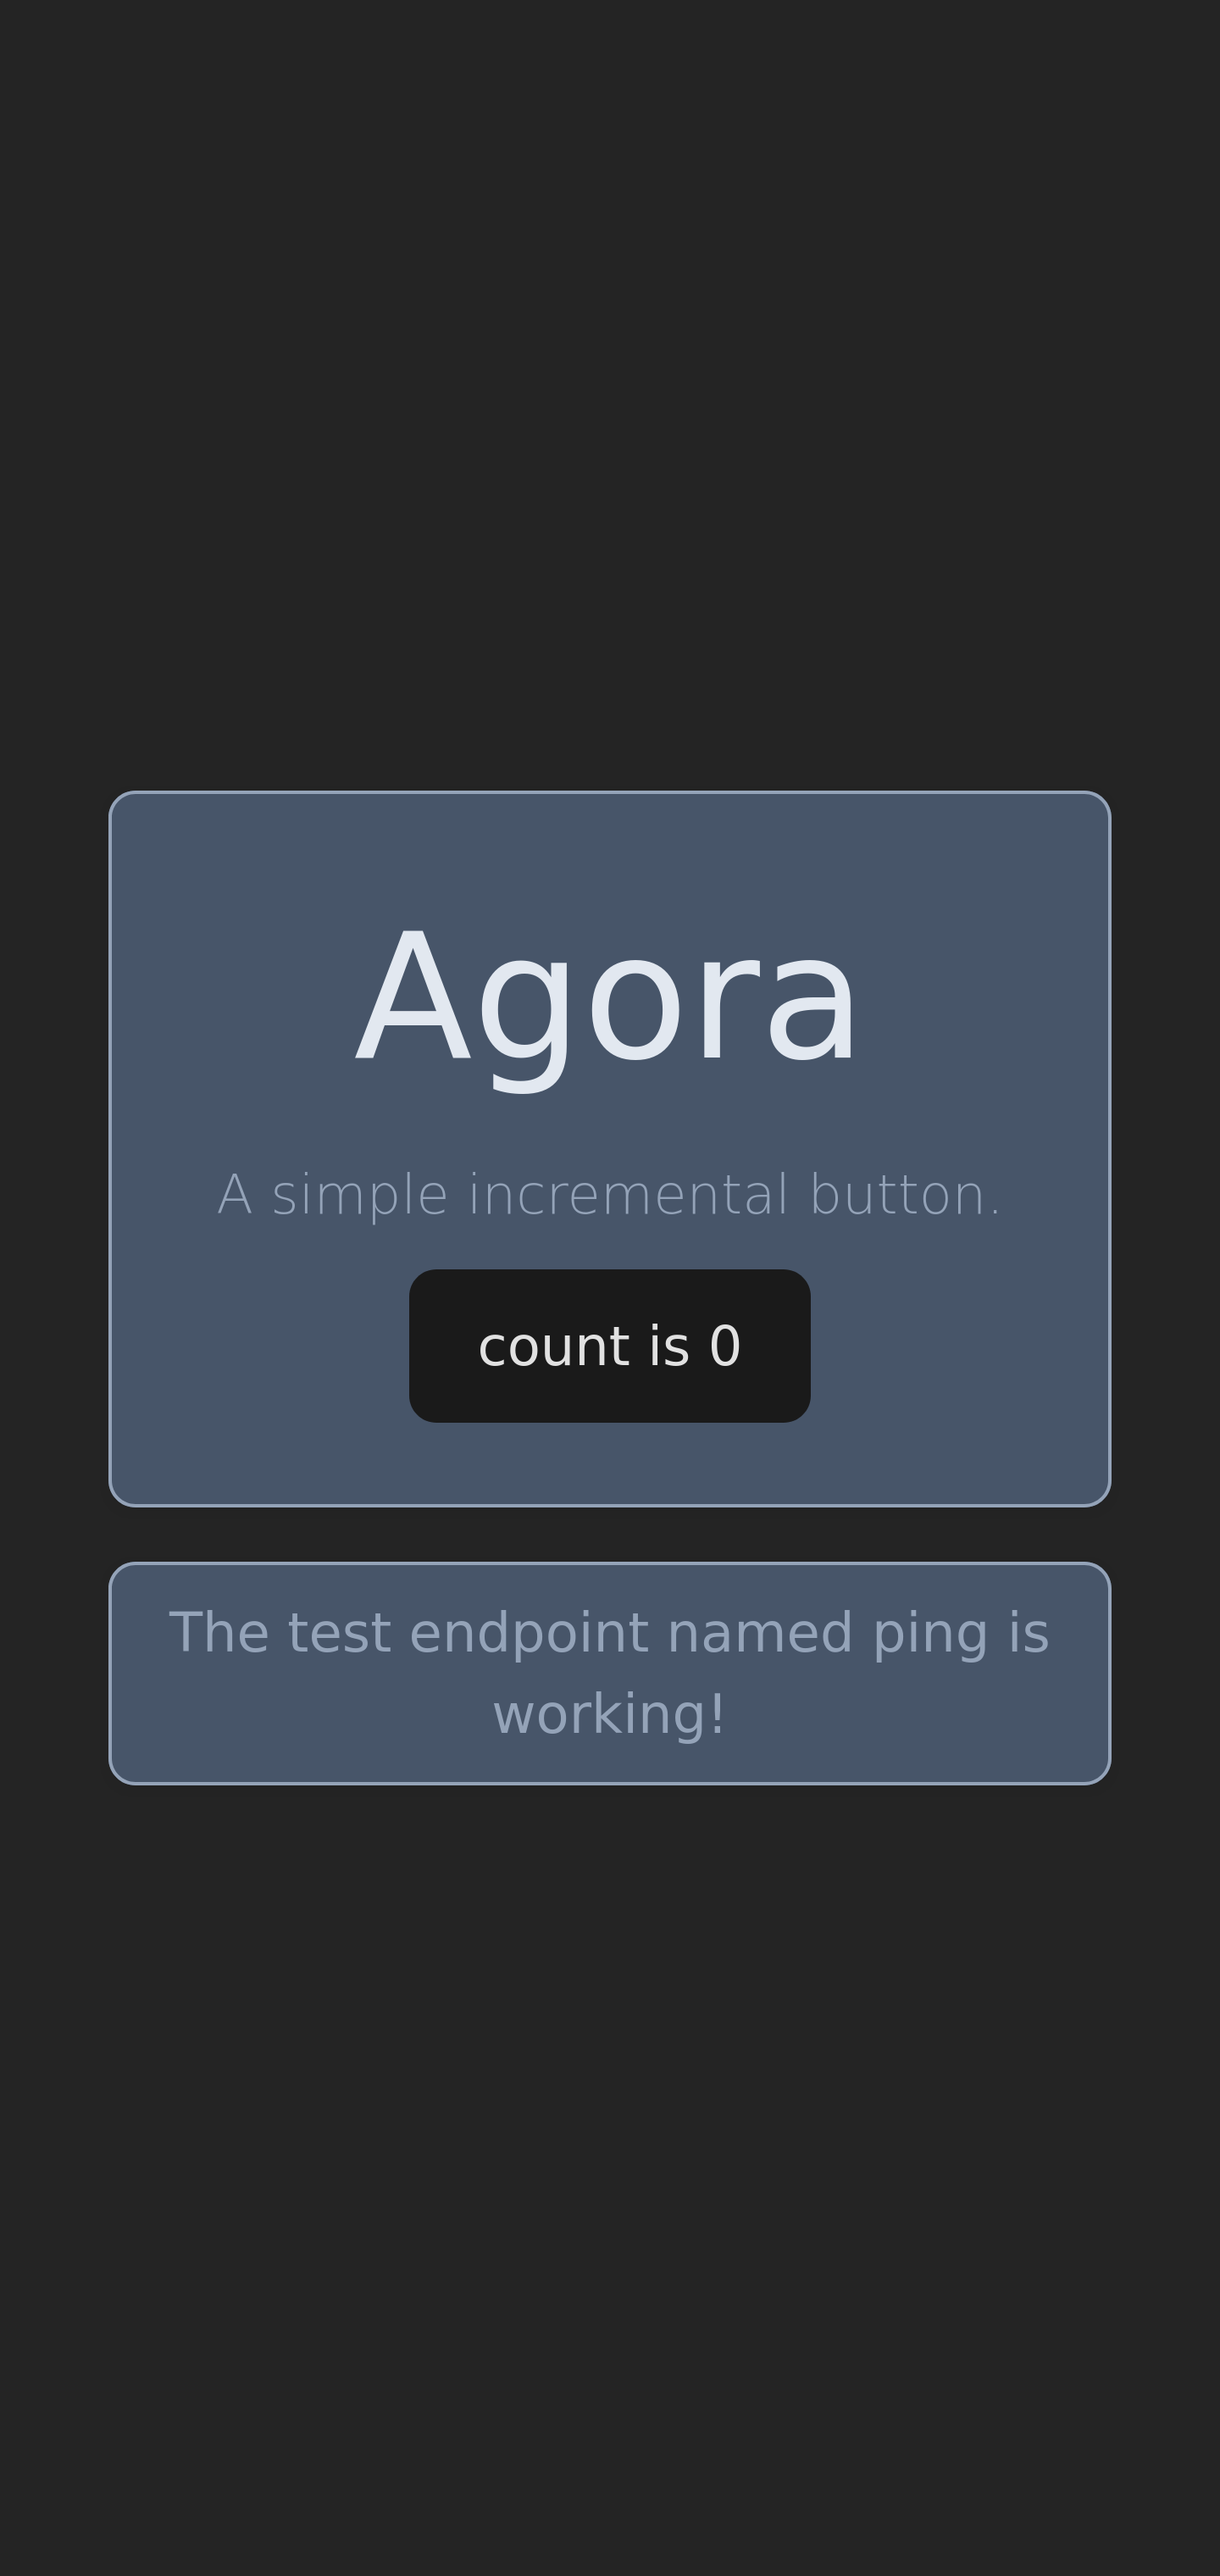
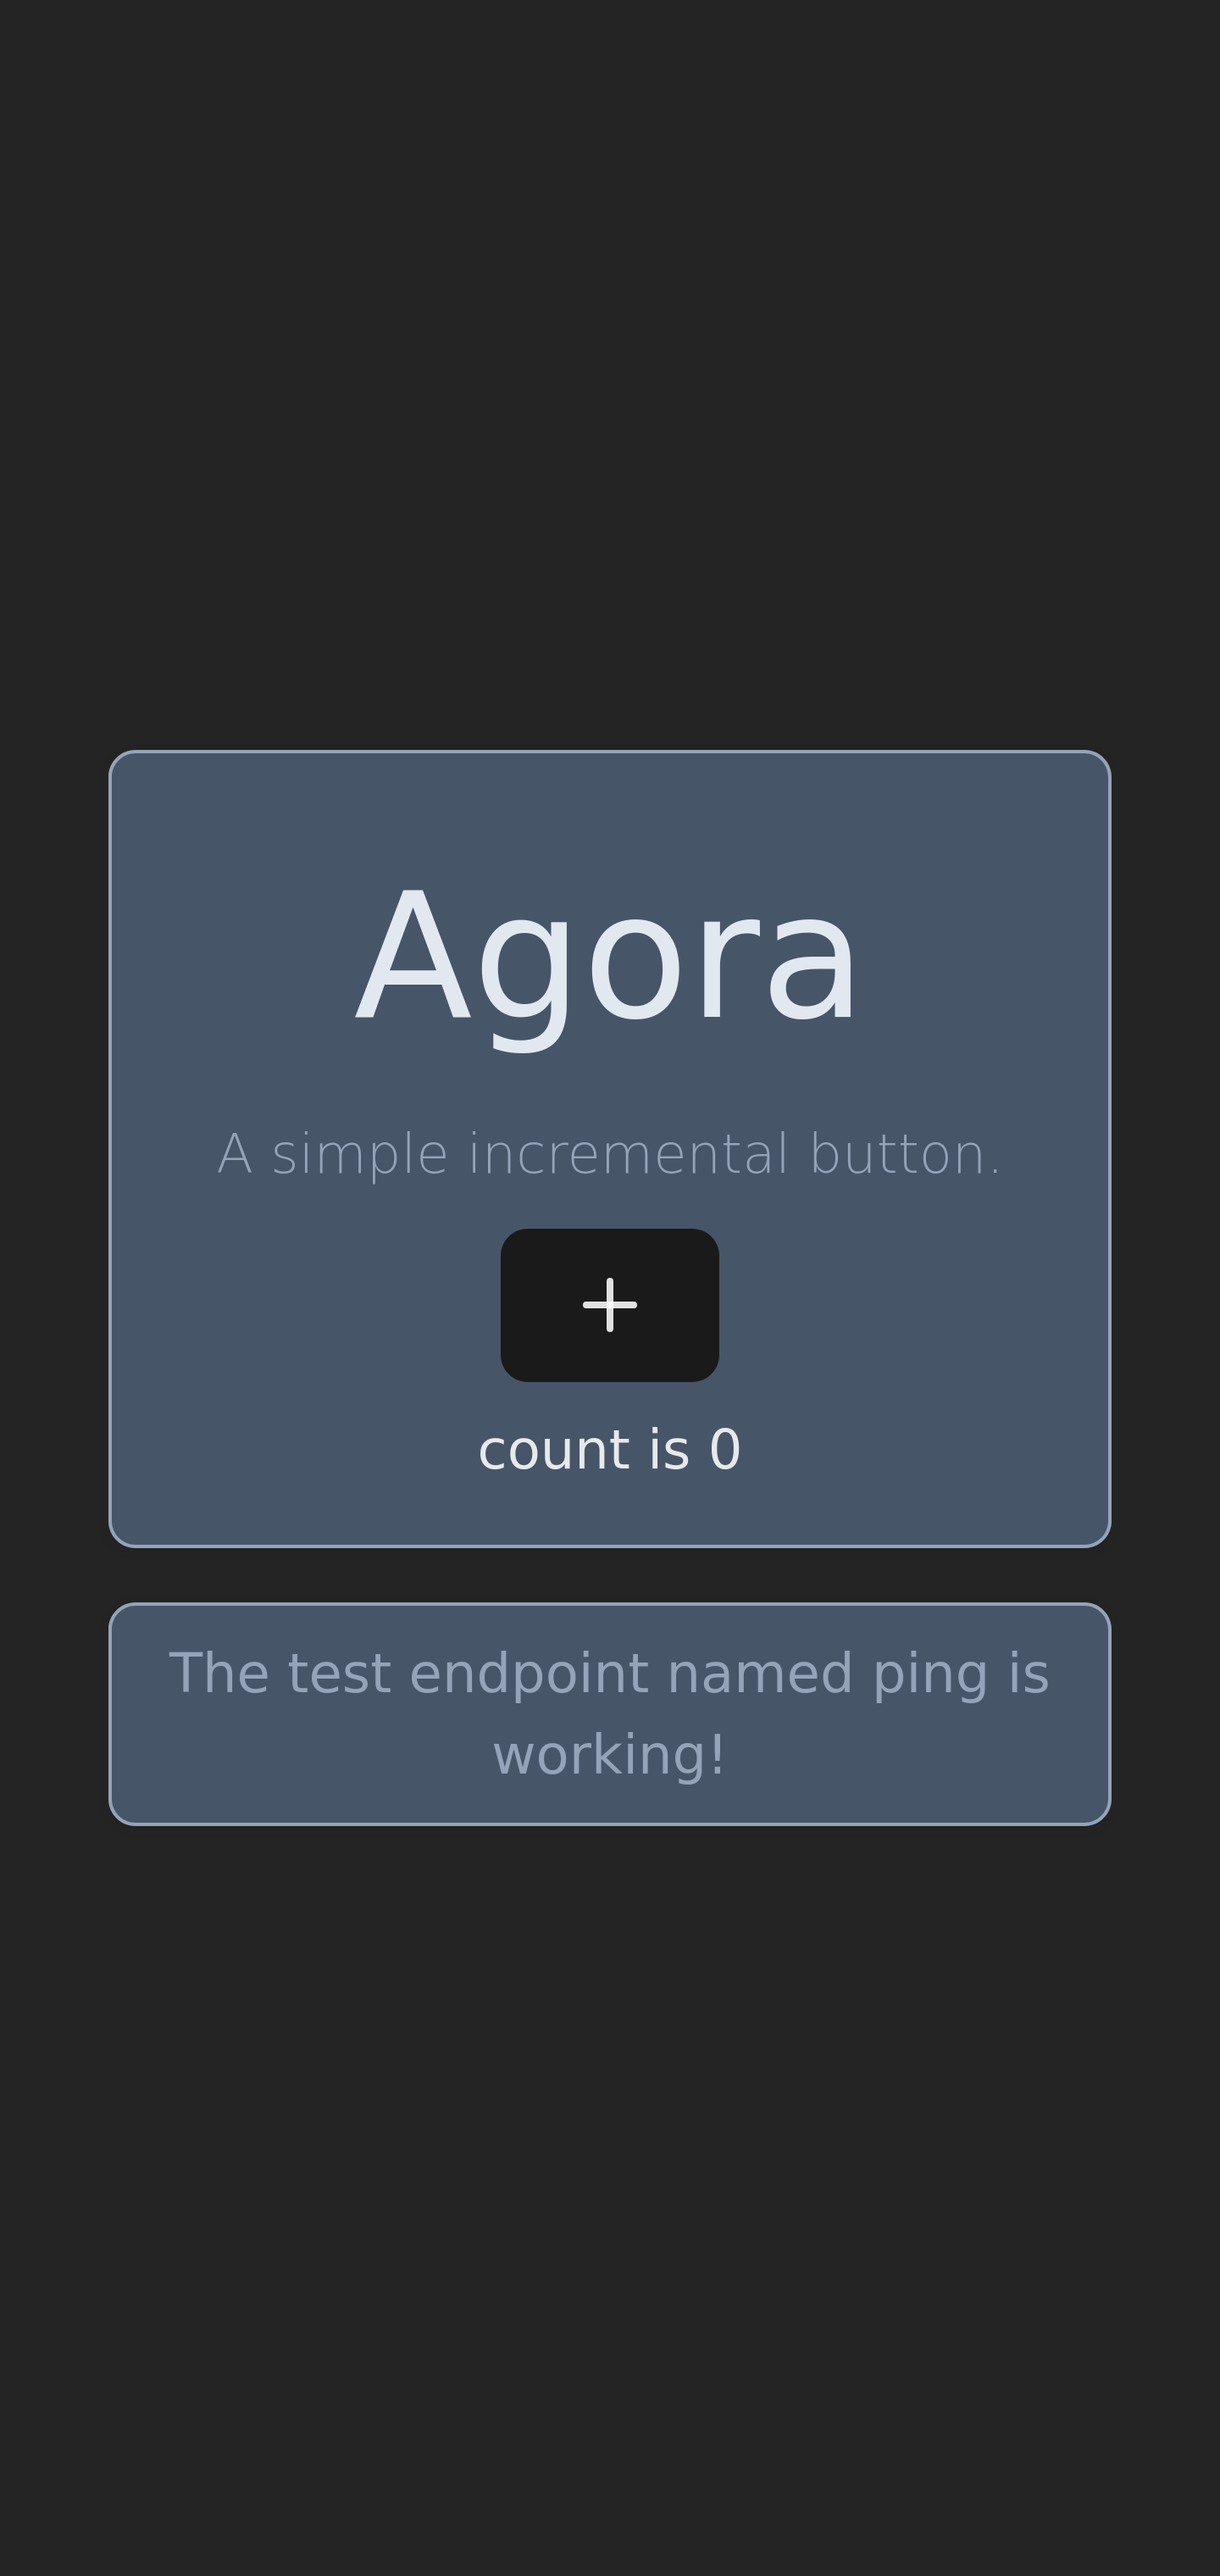
I have made this front end consistent with the others

Changed region(s): [[0.0938, 0.3438, 0.9062, 0.7188], [0.0938, 0.2812, 0.9062, 0.3125]]

diff --git a/templates/agora/ui-agora03/src/app/app.component.ts b/templates/agora/ui-agora03/src/app/app.component.ts
@@ -1,15 +1,24 @@
 import { Component, Injectable, resource } from "@angular/core"
 import { RouterOutlet } from "@angular/router"
+import { 
+  LucideAngularModule, 
+  Loader, 
+  Plus
+ } from "lucide-angular"
 import ENV from "../env"
 
 interface ApiResponse {
-  status: number,
+  status: number
   message: string
 }
 
 @Component({
+  standalone: true,
   selector: "app-root",
-  imports: [RouterOutlet],
+  imports: [
+    RouterOutlet, 
+    LucideAngularModule
+  ],
   template: `
     <div class="rounded-lg border shadow-sm bg-slate-600 border-slate-400">
       <div class="p-4">
@@ -20,29 +29,34 @@ interface ApiResponse {
           A simple incremental button.
         </p>
         <button class="mb-2" type="button" (click)="increment()">
-          count is {{ count }}
+          <i-lucide [img]="Plus"></i-lucide>
         </button>
+        <output class="block">count is {{ count }}</output>
       </div>
     </div>
 
-    <div class="mt-4 rounded-lg border shadow-sm bg-slate-600 border-slate-400">
       @if (apiResponse.status != 200) {
-      <p class="mx-6 my-4 text-orange-400">Loading…</p>
+        <div class="flex items-center mt-4 ml-24">
+          <lucide-angular [img]="Loader" class="w-20 h-20 text-orange-400 animate-[spin_1s_ease-in-out_infinite]"></lucide-angular>
+        </div>
       } @if (apiResponse.status === 200) {
-      <p class="mx-4 my-2 text-slate-400">{{ apiResponse.message }}</p>
+        <div class="mt-4 rounded-lg border shadow-sm bg-slate-600 border-slate-400">
+          <p class="mx-4 my-2 text-slate-400">{{ apiResponse.message }}</p>
+        </div>
       }
-    </div>
-
+    
     <router-outlet />
   `,
   styles: [],
 })
 export class AppComponent {
+  readonly Loader = Loader
+  readonly Plus = Plus
   title = "Agora"
   count: number = 0
   apiResponse: ApiResponse = {
     status: 0,
-    message: ""
+    message: "",
   }
 
   increment() {

diff --git a/templates/agora/ui-agora03/docs/1_SCAFFOLDING.md b/templates/agora/ui-agora03/docs/1_SCAFFOLDING.md
@@ -20,7 +20,28 @@ ng new --skip-git --skip-install --strict --style=css --minimal --routing --ssr=
 cd ui-agora03/
 npm install
 ng add ngx-tailwind
+```
+
+## install the icons `lucide-angular`
+
+```bash
+npm i lucide-angular
+```
+
+## check the licenses of the packages used
+
+```bash
 license-report --output=csv > licenses_report.csv
-chown --recursive developer_username:apache .
+```
+
+## build
+
+```bash
 npm run build
+```
+
+Now it's time to fix the permissions:
+
+```bash
+chown --recursive developer_username:apache .
 ```
